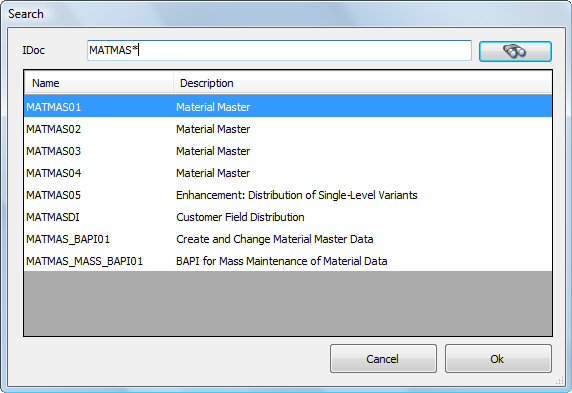
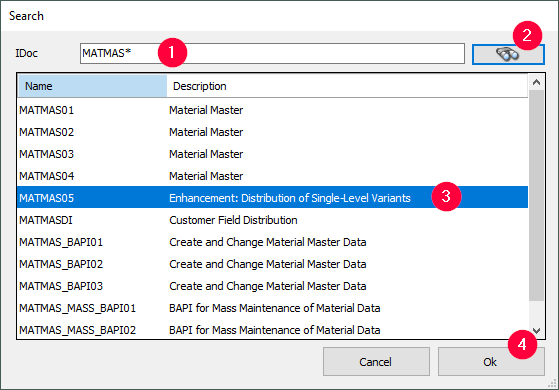
LINQ to SAP IDocs
Querry may need a new example Query+ example code

diff --git a/content/_de/erpconnect/linq-to-sap/linq-to-sap-idocs.md b/content/_de/erpconnect/linq-to-sap/linq-to-sap-idocs.md
@@ -11,22 +11,44 @@ lang: de_DE
 old_url: /ERPConnect-DE/default.aspx?pageid=linq-to-sap-idocs
 ---
 
-IDocs können mit Hilfe von LINQ to SAP ins SAP versendet werden. Die Segmente des gewünschten IDocs können in den Context übernommen und verwendet werden.
+Der folgende Abschnitt beschreibt die Anwendung der IDoc Komponente aus der *LINQ to ERP* Toolbox.
+Mit der IDoc Komponente können Sie IDocs an Ihr SAP senden. 
+Die Segmente des gewünschten IDocs können in den SAP-Kontext übernommen und verwendet werden.
 
-Um ein IDoc auf .NET-Seite anzusteuern, ziehen Sie das IDoc-Symbol aus der Toolbox auf den Datenkontext. Die Auswahl des IDocs erfolgt über den Suchdialog.
+### Ein IDoc finden 
+1. Ziehen Sie die IDoc Komponente in den *LINQ to ERP* DataContext. Ein Suchfenster öffnet sich.
+2. Geben Sie in das Feld **IDoc** (1) den Namen des IDocs ein, das an SAP versendet werden soll. Falls nötig, verwenden Sie Wildcards (*).
+![LINQToERP-Tables-001](/img/content/LINQToERP-Tables-001.png){:class="img-responsive"}
+3. Klicken Sie auf **[Search]** (Fernglassymbol)(2). Die Suchergebnisse werden im Vorschaufenster angezeigt.
+4. Wählen Sie das gewünschte IDoc (3) aus und klicken Sie auf **[OK]** (4).
 
-![LINQToERP-IDocs_001](/img/content/LINQToERP-IDocs_001.png){:class="img-responsive"}
+### Ein IDoc bearbeiten
+Nachdem ein IDoc geladen wurde, öffnet sich das Fenster "LINQ to ERP IDocs".
+Verwenden Sie es, um den Inhalt des IDocs zu filtern und umzubenennen:
 
-Anschließend erscheint im Dialog in der linken Baumstruktur unter *Segments* die Gesamtstruktur des ausgewählten IDocs. Im unteren Fenster sind die Felder des Segments gelistet, das jeweils in der Baumstruktur ausgewählt ist. Man kann Felder, die später nicht verwendet werden sollen, ausklammern oder umbenennen. Im rechten oberen Bereich befinden sich die Klassen und die Collections, deren Namen automatisch aus den jeweiligen Segmenten zusammen gesetzt werden. Eine Änderung der Namen ist hier möglich.
+1. Wählen Sie ein Segment aus der Baumansicht aus, das editiert werden soll (5).
+Die Felder des ausgewählten Segments werden um unteren Bereich des Fensters angezeigt. <br>
+![LINQToERP-IDocs_002](/img/content/LINQToERP-IDocs_002.png){:class="img-responsive" }
+2. Deaktivieren Sie ungenutzte Felder in der Spalte **Selected** oder vergeben Sie neue Namen in der Spalte **Member** (6).
+3. Optional: Vergeben Sie neue Namen für die Klassen und Collections des Segments (7).
+4. Verwenden Sie die Checkbox **Selected**, um Segmente, die im Code später nicht verwendet werden, zu deaktivieren (8).
+Deaktivierte Segmente werden in der Baumansicht *kursiv* angezeigt.
+5. Bestätigen Sie Ihre Eingaben mit **[OK]**. Das Fenster "LINQ to ERP IDocs" schließt sich und im Designer wird ein entsprechendes Icon erstellt.
 
-![LINQToERP-IDocs_002](/img/content/LINQToERP-IDocs_002.png){:class="img-responsive"}
+Um das IDoc zu bearbeiten, doppelklicken Sie auf das IDoc Icon im Designer.
 
-Die Checkbox *Selected* steuert, ob ein Segment später im Code Verwendung finden kann, oder ob es aus Gründen der Übersichtlichkeit deaktiviert wird. Deaktivierte Segmente erscheinen in der Baumstruktur in kursiv.<br>
-Der folgende Code zeigt die Anwendung der generierten Klassen. Zunächst wird ein IDoc-Objekt erzeugt (MATMAS5) und die wichtigsten Kopfinformationen gefüllt (Absender und Empfänger-Infos wie RCVPRN oder SNDPRN).<br>
-Es werden 2 Segmente, E1MARAM (Grunddaten) und E1MAKTM (Kurztext) erstellt, mit den Pflichtfeldern gefüllt und anschließend dem IDoc hinzugefügt. Mit Send() versenden wir das IDoc.
+### Die Klasse im Code verwenden
+Speichern Sie die .erp-Datei, um die Code-Generierung der Proxy-Klasse im Hintergrund anzustoßen. 
+
+In diesem Beispiel generiert die IDoc Komponente die folgenden Objekte:
+- ein IDoc Objekt (MATMAS05) mit den wichtigsten Kopfinformationen (Absender und Empfänger-Infos wie RCVPRN oder SNDPRN).
+- 2 Segmente, E1MARAM (Grunddaten) und E1MAKTM (Kurztext) mit ausgefüllten Pflichtfeldern, die dem IDoc hinzugefügt werden.
+
+Das IDoc wird mit *Send()* versenden.<br>
+Der folgende Code zeigt die Anwendung der generierten Klassen:
 
 <details>
-<summary>[C#]</summary>
+<summary>Klicken Sie hier, um das C# Beispiel zu öffnen</summary>
 {% highlight csharp %}
 static void Main(string[] args) 
 { 
@@ -68,7 +90,10 @@ static void Main(string[] args)
 {% endhighlight %}
 </details>
 
-In der Transaktion WE02 sehen wir die eingehenden IDocs und die ordentliche Verarbeitung, wenn der Status auf grün ist.
+#### Ergebnis in SAP prüfen
+
+Die SAP-Transaktion WE02 zeigt alle eingehenden IDocs. 
+Wenn der Status grün ist, werden die IDocs ordnungsgemäß verarbeitet.
 
 ![LINQToERP-IDocs_003](/img/content/LINQToERP-IDocs_003.png){:class="img-responsive"}
 

diff --git a/content/_en/erpconnect/linq-to-sap/idocs.md b/content/_en/erpconnect/linq-to-sap/idocs.md
@@ -10,25 +10,44 @@ weight: 6
 lang: en_GB
 old_url: /ERPConnect-EN/default.aspx?pageid=linq-to-sap-idocs
 ---
+The following section shows how to use the IDoc component of the *LINQ to ERP* toolbox.<br>
+With the IDoc component you can send IDocs to SAP. The segments of IDocs can be used in the SAP context.
 
-You can send IDocs to SAP with the help of LINQ to SAP. The segments can be used in the SAP context.
 
-To use an IDoc in .NET, drag the IDoc component from the toolbox to the data context. The selection of the IDoc is done in the search dialog.
+### Look Up an IDoc
+1. Drag&Drop the IDoc component into the *LINQ to ERP* DataContext. A search window opens. 
+2. Enter the name of the IDOC to be sent to SAP in the field **IDoc** (1). Use wildcards (*) if needed. <br>
+![LINQToERP-IDocs_001](/img/content/LINQToERP-IDocs_001.png){:class="img-responsive" }
+3. Click **[Search]** (binoculars icon) (2). Search results appear in the preview window.
+4. Select the wanted IDoc (3) and click **[OK]** (4).
 
-![LINQToERP-IDocs_001](/img/content/LINQToERP-IDocs_001.png){:class="img-responsive" width="600px"}
 
-In the following dialog you can find in the left area the structure of the IDoc. In the lower area the fields are shown of the segment that is selected in the treeview. Uncheck unused fields or rename them. In the upper right corner you will find the class names and the collection names (names are generated automatically). If you like, just rename them.
+### Edit an IDoc
+After an IDoc has been loaded, the window "LINQ to ERP IDocs" opens. <br>
+Use it to filter and rename the content of an IDoc:
 
-![LINQToERP-IDocs_002](/img/content/LINQToERP-IDocs_002.png){:class="img-responsive" width="800px"}
+1. Select a segment you want to edit from the treeview (5). The fields of the segment are displayed in the lower area of the window.<br>
+![LINQToERP-IDocs_002](/img/content/LINQToERP-IDocs_002.png){:class="img-responsive" }
+2. Uncheck unused fields or rename fields using the **Member** column (6).
+3. Optional: Rename the class name and collection names of the segment (7).
+4. Use the checkbox **Selected** to deactivate segments that are not used later in the code (8).
+Deactivated segments are displayed with *italic* font in the treeview. 
+5. Click **[OK]** to confirm your selection. The window "LINQ to ERP IDocs" closes and a corresponding icon is created in the Designer.
 
-The checkbox selected can be used to deactivate segments which are not used later in the code. Deactivated segments are shown in italic in the treeview.
+To edit the IDoc, double-click the IDoc icon in the Designer.
 
-The following code shows how to use the generated classes. First an IDoc object is generated (MATMAS05) and the most important header information is filled (e.g. sender and receiver information like RCVPRN or SNDPRN).
+### How to Use the Class in your Code
+Save the .erp file that contains the extraction component to trigger the proxy classes code generation in the background. <br>
 
-Two Segments are created: E1MARAM (Basicdata) and E1MAKTM (Shorttext), filled with the required fields and added to the IDoc. The IDoc is sent with *Send()*.
+In this example the IDoc component generates the following objects:
+- an IDoc object (MATMAS05) including important header information (e.g. sender and receiver information e.g., RCVPRN or SNDPRN).
+- the two Segments E1MARAM (Basicdata) and E1MAKTM (Shorttext) with the required fields already filled. They are also added to the IDoc.
+
+The IDoc is sent with *Send()*.<br>
+The following code shows how to use the generated classes:
 
 <details>
-<summary>Click to open C# example.</summary>
+<summary>Click here to open a C# example.</summary>
 {% highlight csharp %}
 static void Main(string[] args) 
 { 
@@ -70,7 +89,9 @@ static void Main(string[] args)
 {% endhighlight %}
 </details>
 
+#### Check the result in SAP
 
-In the transaction WE02 we can see the incoming IDocs, and if the status is green they are successfully processed.
+The SAP transaction *WE02* shows incoming IDocs. 
+If the status is green, they are successfully processed.
 
-![LINQToERP-IDocs_003](/img/content/LINQToERP-IDocs_003.png){:class="img-responsive" width="800px"}
+![LINQToERP-IDocs_003](/img/content/LINQToERP-IDocs_003.png){:class="img-responsive" }

diff --git a/content/_en/erpconnect/linq-to-sap/queries.md b/content/_en/erpconnect/linq-to-sap/queries.md
@@ -11,7 +11,16 @@ lang: en_GB
 old_url: /ERPConnect-EN/default.aspx?pageid=linq-to-sap-queries
 ---
 
-**You can find the code for this example in the ERPConnect installation directory in the LINQQuery directory.**
+
+The following section shows how to use the Query component of the *LINQ to ERP* toolbox.
+
+### Look Up a Query
+1. Drag&Drop the Query component into the *LINQ to ERP* DataContext. A search window opens. 
+2. Enter the name of the Query to be extracted in the field **Query Name** (1) or enter the name of a User Group in the fiels **User Group**. Use wildcards (*) if needed. <br>
+![LINQToERP-Queries_003](/img/content/LINQToERP-Queries_003.png){:class="img-responsive" width="400px"}
+3. Click **[Search]** (binoculars icon) (2). Search results appear in the preview window.
+4. Select the wanted Query (3) and click **[OK]** (4).
+
 
 Apart from the table integration described in the previous two sections, LINQ to SAP also supports SAP queries as LINQ-capable data sources (important: do not mix these up with BW queries!). The following example demonstrates how a demo query called ZVV01 is addressed in the ZTHEO user group. The screenshot below shows the query's selection screen, as well as the list output. The contents output here by the query (join between VBAK and VBAP) are sales data.
 
@@ -22,7 +31,7 @@ Apart from the table integration described in the previous two sections, LINQ to
 
 To activate a query on the .NET end, drag the query symbol from the toolbox to the data context. You have access to a search mask after logging on.
 
-![LINQToERP-Queries_003](/img/content/LINQToERP-Queries_003.png){:class="img-responsive" width="400px"}
+
 
 In the dialog you can specify whether the values for each select option should be accessible in the code or not (*Pass* is checked off here) and, if so, what the variable name should be (the default name given by SAP might be rather cryptic). An additional variant can also be applied here. In the upper right-hand area, the name of the later DataContext method is defined (*Method*), as well as what the class that represents a single row should be called (*Object*) and what the class should be called which represents the entire query output (*Collection*). 
 

diff --git a/content/_de/erpconnect/linq-to-sap/linq-to-sap-funktionsbausteine-und-bapis.md b/content/_de/erpconnect/linq-to-sap/linq-to-sap-funktionsbausteine-und-bapis.md
@@ -23,10 +23,11 @@ Funktionsbausteine und BAPIs werden bei der LINQ-Anwendung nahezu gleich gehandh
 4. Wählen Sie den gewünschten Funktionsbaustein/BAPI (3) aus und klicken Sie auf **[OK]** (4).
 
 ### Export, Import, Changings und Tables definieren
- 
+Nachdem ein Funktionsbaustein/BAPI geladen wurde, öffnet sich das Fenster “RFC Function Modules/BAPIs”.
+
 1. Im *Export* Tab können Sie die Ausgabewerte definieren, die von SAP zurück an den Client gesendet werden, nachdem die Funktion ausgeführt wurden. <br>
 Um einen Parameter beim Aufruf im Code dynamisch zu setzen, haken Sie in der Spalte **Pass** die entsprechende Checkbox an (5).
-Um einen statischen Wert zu hinterlegen, geben Sie den neuen Wert in der Spalte **Valu** ein (6).<br>
+Um einen statischen Wert zu hinterlegen, geben Sie den neuen Wert in der Spalte **Value** ein (6).<br>
 ![LINQToERP-Function-Modules-002](/img/content/LINQToERP-Function-Modules-002.png){:class="img-responsive" }
 2. Im *Import* Tab können Sie Eingabewerte definieren, die vom Client an SAP gesendet werden.
 3. Im *Changings* Tab können Sie Parameter definieren, die sowohl für Eingabe als auch Ausgabe verwendet werden können.
@@ -41,6 +42,7 @@ Bleiben die Felder leer, werden Standardnamen generiert. <br>
 Um den Funktionsbaustein/BAPI zu bearbeiten, doppelklicken Sie auf das Function Icon im Designer.
 
 ### Die Klasse im Code verwenden
+Speichern Sie die .erp-Datei, um die Code-Generierung der Proxy-Klasse im Hintergrund anzustoßen. 
 
 Der folgende Code zeigt die Ansteuerung des obigen Beispiels mit jeweils einem Übergabewert und einer Rückgabetabelle:
 

diff --git a/content/_de/erpconnect/linq-to-sap/linq-to-sap-tabellen.md b/content/_de/erpconnect/linq-to-sap/linq-to-sap-tabellen.md
@@ -15,7 +15,7 @@ Der folgende Abschnitt beschreibt die Anwendung der Table Komponente aus der *LI
 
 ### Eine Tabelle finden 
 1. Ziehen Sie die Table Komponente in den *LINQ to ERP* DataContext. Ein Suchfenster öffnet sich.
-2. Geben Sie in das Feld Table name (1) den Namen der zu extrahierenden Tabelle ein. Falls nötig, verwenden Sie Wildcards (*).
+2. Geben Sie in das Feld **Table** (1) den Namen der zu extrahierenden Tabelle ein. Falls nötig, verwenden Sie Wildcards (*).
 ![LINQToERP-Tables-001](/img/content/LINQToERP-Tables-001.png){:class="img-responsive"}
 3. Klicken Sie auf **[Search]** (Fernglassymbol)(2). Die Suchergebnisse werden im Vorschaufenster angezeigt.
 4. Wählen Sie die gewünschte Tabelle (3) aus und klicken Sie auf **[OK]** (4).
@@ -29,7 +29,7 @@ Standardmäßig entsprechen die Namen der Spalten den späteren Properties der P
 Sie können einen eigenen Namen vergeben, indem Sie die Angabe in der Spalte **Member** überschreiben (6). 
 ![LINQToERP-Tables-002](/img/content/LINQToERP-Tables-002.png){:class="img-responsive"}
 3. Klicken Sie auf **[Preview]**, um die Ergebnistabelle zu prüfen.
-4. Bestätigen Sie Ihr Eingaben mit **[OK]**. Das Fenster "LINQ to ERP Tables" schließt sich und im Designer wird ein entsprechendes Icon erstellt.<br>
+4. Bestätigen Sie Ihre Eingaben mit **[OK]**. Das Fenster "LINQ to ERP Tables" schließt sich und im Designer wird ein entsprechendes Icon erstellt.<br>
 ![LINQToERP-Tables-003](/img/content/LINQToERP-Tables-003.png){:class="img-responsive"}
 
 Um die Tabelle zu bearbeiten, doppelklicken Sie auf das Table Icon im Designer.

diff --git a/content/_en/ecs-core/ecscore-administration/ecscore-validation.md b/content/_en/ecs-core/ecscore-administration/ecscore-validation.md
@@ -10,7 +10,7 @@ weight: 7
 lang: en_GB
 ---
 
-To ensure that everything is configured correctly and the connection settings work as desired, you can use the [tecs library](http://static.theobald-software.com/theobald.ecs.micro/) (recommended: section *Live Test of your ECSCore*), as well as pure Javascript or REST clients such as [POSTMAN](https://chrome.google.com/webstore/detail/postman/fhbjgbiflinjbdggehcddcbncdddomop) (Chrome) or [RESTClient](https://addons.mozilla.org/de/firefox/addon/restclient/) (Firefox), which are freely available as browser extensions. <br>
+To ensure that everything is configured correctly and the connection settings work as wanted, you can use the [tecs library](http://static.theobald-software.com/theobald.ecs.micro/) (recommended: section *Live Test of your ECSCore*), as well as pure Javascript or REST clients such as [POSTMAN](https://chrome.google.com/webstore/detail/postman/fhbjgbiflinjbdggehcddcbncdddomop) (Chrome) or [RESTClient](https://addons.mozilla.org/de/firefox/addon/restclient/) (Firefox), which are freely available as browser extensions. <br>
 
 Important: The test refers purely to the stored SAP connections of the *Management Site* ('management endpoint'). To consume services, the *Services Site* ('Consumer Endpoint') must be used. For more information, see *Webservice Authentication*.  
 

diff --git a/content/_en/erpconnect-services/ecs-core/webservices/create-openapi-definitions.md b/content/_en/erpconnect-services/ecs-core/webservices/create-openapi-definitions.md
@@ -13,7 +13,7 @@ old_url: /ERPConnect-Services-EN/default.aspx?pageid=create_openapi_definitions
 
 After you have successfully designed and tested your web service you can export it into an OpenAPI definition. OpenAPI (formerly known as Swagger) is an API description format for REST APIs. Some cloud applications such as Nintex Workflow Cloud or Microsoft Flow support the import of OpenAPI files as custom connectors. The advantage is that it is really easy to configure these connectors compared a the rather technical direct web service call.  
 
-To export a web service into an OpenAPI definition click on *Export OpenAPI Definition* in the menu bar. The definition will be exported to the desired destination in JSON-format. It is possible to adjust it manually within any JSON-editor of your choice (e.g. Visual Studio). 
+To export a web service into an OpenAPI definition click on *Export OpenAPI Definition* in the menu bar. The definition will be exported to the wanted destination in JSON-format. It is possible to adjust it manually within any JSON-editor of your choice (e.g. Visual Studio). 
 
 ![ecscore-nwc_1](/img/content/ecscore-nwc_1.png){:class="img-responsive"}
 

diff --git a/content/_en/erpconnect/linq-to-sap/function-modules-and-bapis.md b/content/_en/erpconnect/linq-to-sap/function-modules-and-bapis.md
@@ -25,6 +25,8 @@ In the LINQ application, Function Modules and BAPIs are handled nearly the same 
 
 ### Define Export, Import, Changings and Tables
 
+After a Function Module/BAPI has been loaded, the window "RFC Function Modules/BAPIs" opens. 
+
 1. In the *Export* tab you can define the output values sent from SAP back to the client after the execution of a function module.<br>
 If a parameter is to be set dynamically in the code, mark the checkbox of the item in the column **Pass** (5).<br>
 To assign a static value, enter the new value in the column **Value** (6).<br>
@@ -41,6 +43,7 @@ You can also specify the variable name, the name of the table class and the name
 To edit the Function Module/BAPI, double-click the function icon in the Designer.
 
 ### How to Use the Class in your Code
+Save the .erp file that contains the extraction component to trigger the proxy classes code generation in the background. <br>
 
 The following code shows how the example above is addressed with an actual parameter and a return table:
 

diff --git a/content/_en/erpconnect-services/sap-integration-nintex/nintex-forms/load-data-in-dropdown-lists.md b/content/_en/erpconnect-services/sap-integration-nintex/nintex-forms/load-data-in-dropdown-lists.md
@@ -12,7 +12,7 @@ lang: en_GB
 
 In some SAP integration scenarios it can be useful to provide a flexible data selection in cascading dropdown lists. This is also possible by integrating JavaScript and ECS REST-Services in Nintex Forms (compare this with the earlier example of SAP validation in Nintex Forms). 
 
-In the present example an SAP material number should be entered in an input field in Nintex Forms and all possible return values for this material number should be listed in a dropdown box. When the desired material is selected in the dropdown box the material long text is supposed to be displayed in another field.  
+In the present example an SAP material number should be entered in an input field in Nintex Forms and all possible return values for this material number should be listed in a dropdown box. When the wanted material is selected in the dropdown box the material long text is supposed to be displayed in another field.  
 
 **Step 1: Create a SharePoint custom list**
 

diff --git a/content/_en/editorial-guide/markdown-example.md b/content/_en/editorial-guide/markdown-example.md
@@ -118,7 +118,7 @@ Tables are styled in a specific way, but this will happen automatically.
 Images should be saved in the /img/content folder.
 
 To make it a specific size, add height="200px" and width="200px". Be aware that if a big size is used and the image is viewed on mobile,
-it does shrink to the screen size (to prevent sideways scrolling), but does not scale proportionally, which gives an undesired effect.
+it does shrink to the screen size (to prevent sideways scrolling), but does not scale proportionally, which gives an unwanted effect.
 As such, it is advised that if height and width are added, the class img-responsive is also added, so it will scale proportionally on small screens.
   
 ![Benjamin Bannekat](https://octodex.github.com/images/bannekat.png){:height="200px" width="200px" class="img-responsive"}

diff --git a/content/_en/ecs-core/ecscore-administration/webservices.md b/content/_en/ecs-core/ecscore-administration/webservices.md
@@ -13,5 +13,5 @@ lang: en_GB
 The Web Services can be managed in the *Web Services* menu. All Web Services including all service operations created with the WebService Designer and deployed to the management endpoint are displayed. 
 In addition, when you click on a Web Service, the following additional options are offered: <br>
 - *[Download Open Api Definition](../webservices/openapi_definitions/create_openapi_definitions_managementsite)*: This exports a Web service to an OpenApi definition.
-- *Download Web Service Definition*: This saves the Web service definition to a desired storage location.    
+- *Download Web Service Definition*: This saves the Web service definition to a wanted storage location.    
 - *Remove*: This deletes a Web service from the dashboard. 

diff --git a/content/_en/erpconnect-services/sap-integration-nintex/nintex-integration-sharepoint/nintex-workflow-custom-actions/call-sap-function-action.md b/content/_en/erpconnect-services/sap-integration-nintex/nintex-integration-sharepoint/nintex-workflow-custom-actions/call-sap-function-action.md
@@ -12,7 +12,7 @@ lang: en_GB
 old_url: /ERPConnect-Services-EN/default.aspx?pageid=call_sap_function_action
 ---
 
-The *Call SAP Function Custom Action* for Nintex Workflow allows you to call any remote-enabled SAP function module or BAPI for read/write access to SAP. In Nintex Workflow the output always occurs in XML format which can be displayed, adjusted or processed as desired.   
+The *Call SAP Function Custom Action* for Nintex Workflow allows you to call any remote-enabled SAP function module or BAPI for read/write access to SAP. In Nintex Workflow the output always occurs in XML format which can be displayed, adjusted or processed as wanted.   
 
 
 ![ECS-Nintex-CallSAPFunction-Action](/img/content/ECS-Nintex-CallSAPFunction-Action.png){:class="img-responsive"}
